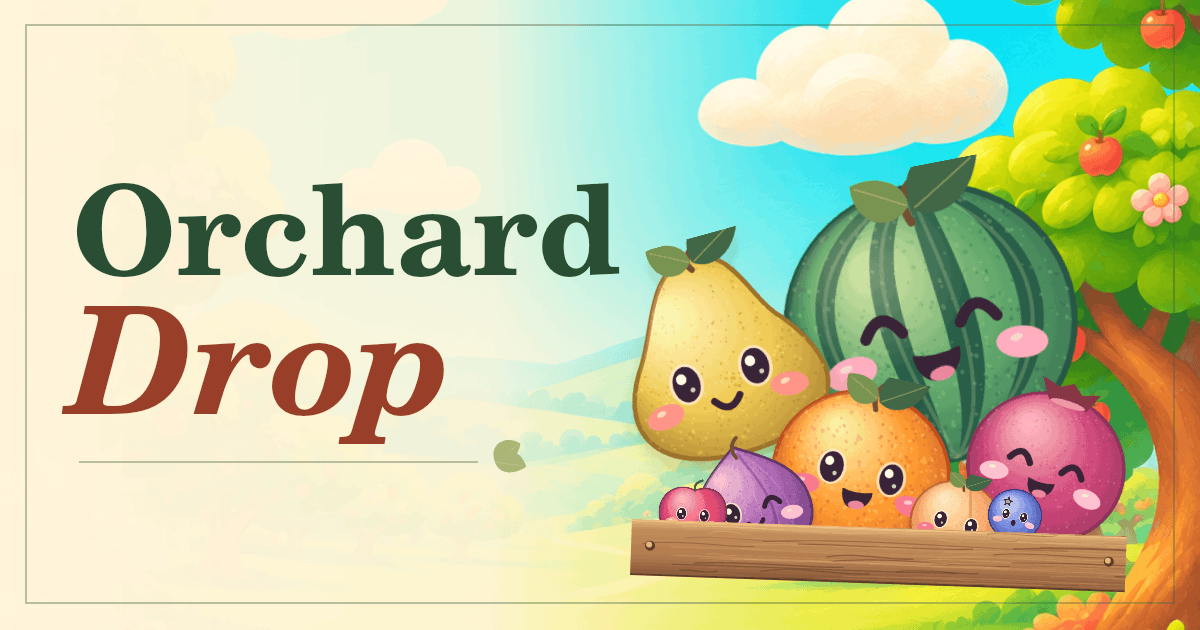
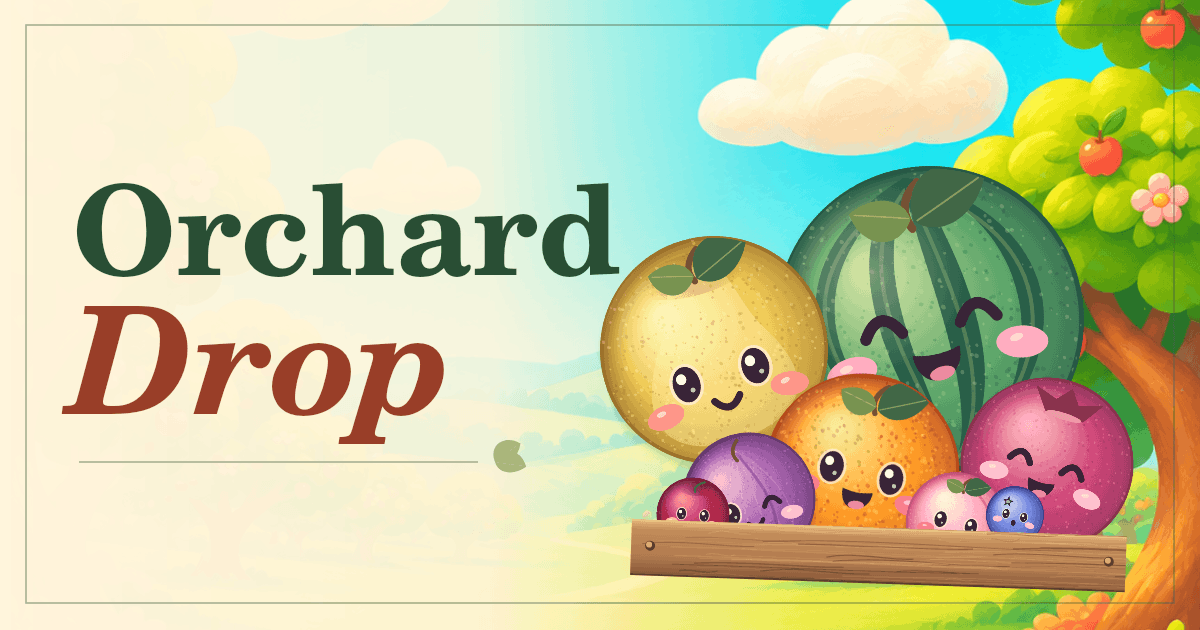
Sharpen Orchard Drop fruit and strengthen heavy impacts

Changed region(s): [[0.4933, 0.2413, 0.9867, 0.8444], [0.7092, 0.9952, 0.7708, 1.0], [0.8325, 0.9349, 0.8633, 0.9651]]

diff --git a/carts/orchard-drop/code.js b/carts/orchard-drop/code.js
@@ -3,16 +3,16 @@ export const HEIGHT = 460;
 export const CRATE = { left: 19, right: 341, floor: 441, line: 95 };
 export const DROP_Y = 44;
 export const FRUIT = [
-  { name: 'Blueberry', radius: 11, color: '#899ad6' },
-  { name: 'Cherry', radius: 15, color: '#f66673' },
-  { name: 'Apricot', radius: 20, color: '#ffab63' },
-  { name: 'Lime', radius: 25, color: '#b5c654' },
-  { name: 'Fig', radius: 30, color: '#b377ad' },
-  { name: 'Orange', radius: 36, color: '#ff8d33' },
-  { name: 'Apple', radius: 43, color: '#ed514b' },
-  { name: 'Pomegranate', radius: 50, color: '#cb4f6c' },
-  { name: 'Golden pear', radius: 58, color: '#f5cb59' },
-  { name: 'Watermelon', radius: 68, color: '#73a25b' },
+  { name: 'Blueberry', radius: 11, pixels: 192 },
+  { name: 'Cherry', radius: 15, pixels: 192 },
+  { name: 'Peach', radius: 20, pixels: 192 },
+  { name: 'Lime', radius: 25, pixels: 288 },
+  { name: 'Fig', radius: 30, pixels: 288 },
+  { name: 'Orange', radius: 36, pixels: 288 },
+  { name: 'Apple', radius: 43, pixels: 512 },
+  { name: 'Pomegranate', radius: 50, pixels: 512 },
+  { name: 'Golden pear', radius: 58, pixels: 512 },
+  { name: 'Watermelon', radius: 68, pixels: 576 },
 ];
 export const fruitPath = tier => 'assets/fruit-' + tier + '.webp';
 const OVERFLOW_TICKS = 90;
@@ -21,6 +21,7 @@ const DROP_DELAY = 22;
 const SUBSTEPS = 3;
 const SOLVER_PASSES = 5;
 const MAX_TIER = FRUIT.length - 1;
+const FRUIT_EDGE_BLEED = .35;
 const clamp = (n, min, max) => Math.max(min, Math.min(max, n));
 
 function clampX(x, radius) {
@@ -58,7 +59,11 @@ function separate(a, b, nx, ny, overlap) {
   const dvy = b.vy - a.vy;
   const closing = dvx * nx + dvy * ny;
   if (closing >= 0) return;
-  const normal = -closing * (closing < -1.4 ? 1.12 : 1) / total;
+  const momentumA = (a.vx * nx + a.vy * ny) / inverseA;
+  const momentumB = -(b.vx * nx + b.vy * ny) / inverseB;
+  const impactRadius = momentumA >= momentumB ? a.radius : b.radius;
+  const bounce = closing < -1.4 ? .06 + .0055 * impactRadius : 0;
+  const normal = -closing * (1 + bounce) / total;
   const tangent = clamp((dvx * ny - dvy * nx) / total, -.13 * normal, .13 * normal);
   const ix = nx * normal - ny * tangent;
   const iy = ny * normal + nx * tangent;
@@ -143,13 +148,32 @@ export function createCart(api) {
     bodies.splice(j, 1);
     if (cleared) bodies.splice(i, 1);
     else {
-      bodies[i] = {
+      const merged = {
         tier, radius, x: clampX(x, radius), y: Math.min(y, CRATE.floor - radius),
         vx: (a.vx + b.vx) * .32, vy: (a.vy + b.vy) * .28 - .55, landed: true, born: tick,
       };
+      bodies[i] = merged;
+      pushNearbyFruit(merged);
     }
     status = (cleared ? 'Watermelon harvest!' : name + ' merged!') + ' Plus ' + points + ' points.';
     playCue(cleared ? 'harvest' : 'merge', tier);
+  }
+
+  function pushNearbyFruit(merged) {
+    const mass = merged.radius ** 2;
+    for (const body of bodies) {
+      if (body === merged) continue;
+      const dx = body.x - merged.x;
+      const dy = body.y - merged.y;
+      const distance = Math.hypot(dx, dy);
+      const overlap = merged.radius + body.radius - distance;
+      if (overlap <= 0) continue;
+      const massShare = mass / (mass + body.radius ** 2);
+      const depth = Math.min(1, overlap / (merged.radius * .4));
+      const impulse = (1.1 + merged.radius * .07) * massShare * (.55 + .45 * depth);
+      body.vx += (distance ? dx / distance : 1) * impulse;
+      body.vy += (distance ? dy / distance : 0) * impulse;
+    }
   }
 
   function contacts() {
@@ -176,7 +200,7 @@ export function createCart(api) {
   function physics() {
     for (let step = 0; step < SUBSTEPS; step++) {
       for (const body of bodies) {
-        body.vy = Math.min(13, body.vy + .5 / SUBSTEPS);
+        body.vy = Math.min(12 + body.radius * .055, body.vy + .5 / SUBSTEPS);
         body.x += body.vx / SUBSTEPS;
         body.y += body.vy / SUBSTEPS;
       }
@@ -242,7 +266,9 @@ export function createCart(api) {
     const scale = api.screen().w / WIDTH;
     const rect = (x, y, w, h, color) => api.rect(x * scale, y * scale, w * scale, h * scale, color);
     const fruit = (tier, x, y, radius, opacity = 1) => api.spr(fruitPath(tier), x * scale, y * scale, {
-      scale: radius * 2 * scale / 96, anchor: [.5, .5], alpha: opacity,
+      // Cover the subpixel seam where the antialiased edges of two fruit touch.
+      scale: (radius + FRUIT_EDGE_BLEED) * 2 * scale / FRUIT[tier].pixels,
+      anchor: [.5, .5], alpha: opacity,
     });
     api.spr('assets/crate.webp', 0, 0, { sx: scale / 2, sy: scale / 2 });
 

diff --git a/play/orchard-drop/index.html b/play/orchard-drop/index.html
@@ -9,7 +9,7 @@
   <meta property="og:description" content="Drop fruit into a harvest crate, chain matching pairs, and make room for a watermelon.">
   <meta property="og:image" content="../../carts/orchard-drop/assets/poster.png">
   <title>Orchard Drop</title>
-  <link rel="icon" href="../../carts/orchard-drop/assets/icon.png?v=2" sizes="512x512" type="image/png">
+  <link rel="icon" href="../../carts/orchard-drop/assets/icon.png?v=3" sizes="512x512" type="image/png">
   <link rel="stylesheet" href="./orchard.css?v=2">
 </head>
 <body data-cart="orchard-drop">
@@ -21,7 +21,7 @@
     </header>
 
     <section id="intro" aria-label="How to play">
-      <img class="poster" src="../../carts/orchard-drop/assets/poster.png?v=2" width="1200" height="630" alt="Smiling fruit in a wooden crate in a sunny orchard">
+      <img class="poster" src="../../carts/orchard-drop/assets/poster.png?v=3" width="1200" height="630" alt="Smiling fruit in a wooden crate in a sunny orchard">
       <button id="play" class="primary" type="button">Play Orchard Drop</button>
       <ol class="rules">
         <li>Press and drag to aim. Release to drop.</li>
@@ -71,6 +71,6 @@
     <a class="library-link" href="../../">Back to Library</a>
   </dialog>
   <div id="safe-area" aria-hidden="true"></div>
-  <script type="module" src="./orchard.mjs?v=2"></script>
+  <script type="module" src="./orchard.mjs?v=3"></script>
 </body>
 </html>

diff --git a/docs/carts/orchard-drop.md b/docs/carts/orchard-drop.md
@@ -8,8 +8,9 @@ Press and move horizontally anywhere in the crate to aim. Release to drop. A can
 
 ## Rules
 
-- Identical touching fruit merge automatically. The order is blueberry, cherry, apricot, lime, fig, orange, apple, pomegranate, golden pear, and watermelon.
+- Identical touching fruit merge automatically. The order is blueberry, cherry, peach, lime, fig, orange, apple, pomegranate, golden pear, and watermelon.
 - Drops use a shuffled bag of two each of the first four fruits. A brief interval separates drops.
+- Heavy fruit transfer more momentum on impact. A growing fruit can push neighbors outward when it merges.
 - A merge into the second fruit is worth 3 points. Later tiers earn successively larger values through 55 points for a watermelon. Two watermelons clear both fruit and earn 100 points before any multiplier.
 - Merges within 48 ticks of each other, with no new drop between them, increase the multiplier up to four times the base value.
 - A fruit that has made contact can start an overflow warning. If fruit stays above the dashed fill line for 90 ticks, the run ends. Merge or settle the pile below the line before the meter fills to continue.
